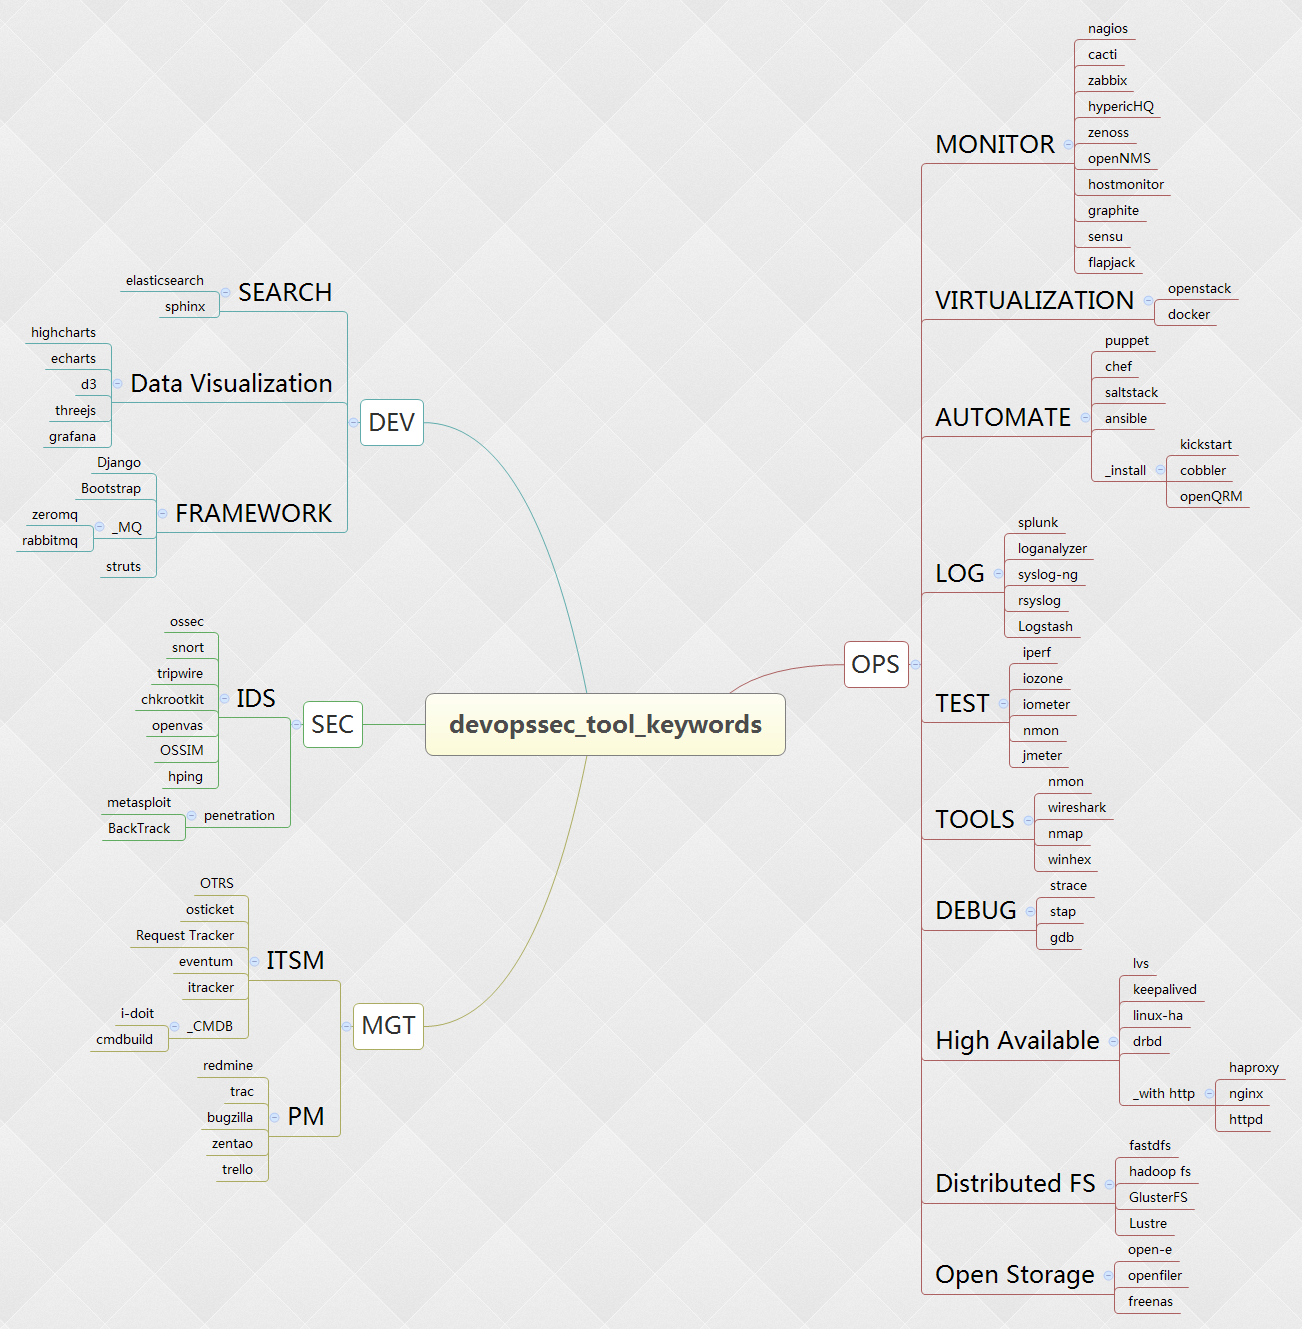
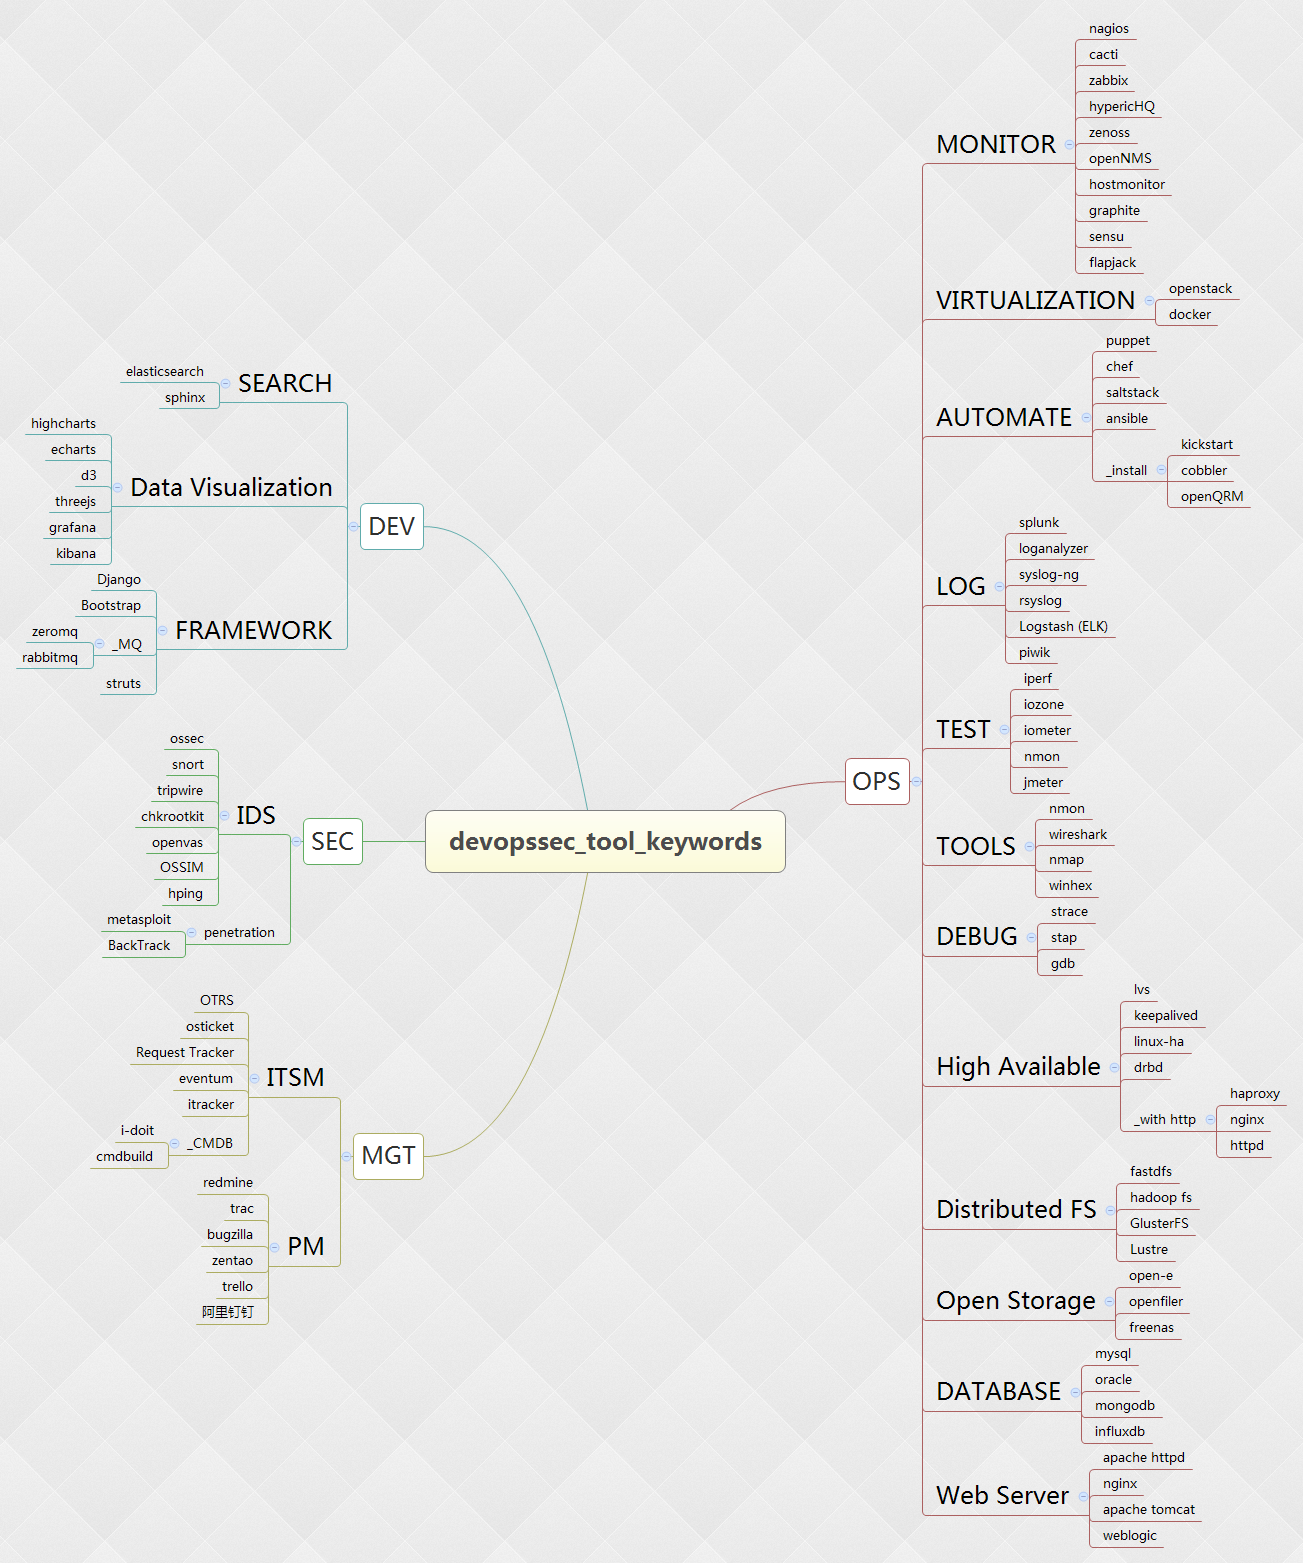
update database web server dingding

diff --git a/devopssec_tool_keywords.html b/devopssec_tool_keywords.html
@@ -99,7 +99,10 @@
 <a name="2hfftridt8qbk93ta1jhdd2in3">&nbsp;&nbsp;rsyslog</a>
 </h3>
 <h3 class="topic">
-<a name="42u2t9dqfvtfir9s0h990ik50g">&nbsp;&nbsp;Logstash</a>
+<a name="42u2t9dqfvtfir9s0h990ik50g">&nbsp;&nbsp;Logstash (ELK)</a>
+</h3>
+<h3 class="topic">
+<a name="3cg8k75s7g70ateouodq4v14vm">&nbsp;&nbsp;piwik</a>
 </h3>
 <h3 class="topic">
 <a name="30vebl41mp37e98nckv93ret73">&nbsp;TEST</a>
@@ -200,6 +203,36 @@
 <h3 class="topic">
 <a name="1a75727747b34djje9f2pq1a93">&nbsp;&nbsp;freenas</a>
 </h3>
+<h3 class="topic">
+<a name="0n1nkga500tcrjlf6ocqjh8ipp">&nbsp;DATABASE</a>
+</h3>
+<h3 class="topic">
+<a name="6iq3hvlnttihkv68g4dnclo6t2">&nbsp;&nbsp;mysql</a>
+</h3>
+<h3 class="topic">
+<a name="4qekp9g0kok8f77aj0a812fnum">&nbsp;&nbsp;oracle</a>
+</h3>
+<h3 class="topic">
+<a name="24dkde60crhl9ffo3pn0c4nid7">&nbsp;&nbsp;mongodb</a>
+</h3>
+<h3 class="topic">
+<a name="7jr7ebg1n9nqgurjkbb1p3uv09">&nbsp;&nbsp;influxdb</a>
+</h3>
+<h3 class="topic">
+<a name="30cb8bsh5evtnlkhmh9dgvt58a">&nbsp;Web Server</a>
+</h3>
+<h3 class="topic">
+<a name="5v12gmk9a90dmi6226ak2apgk4">&nbsp;&nbsp;apache httpd</a>
+</h3>
+<h3 class="topic">
+<a name="2dfrj19tspdss8s4u917nnf2fn">&nbsp;&nbsp;nginx</a>
+</h3>
+<h3 class="topic">
+<a name="2jl8f8gd7pkqlc37b6qbof4nl0">&nbsp;&nbsp;apache tomcat</a>
+</h3>
+<h3 class="topic">
+<a name="2jbu52cdqmkobtt4m5d975475q">&nbsp;&nbsp;weblogic</a>
+</h3>
 <h2 class="topic">
 <a name="1jngas0d6jgpqmkm4cdhr7q872">MGT</a>
 </h2>
@@ -247,6 +280,9 @@
 </h3>
 <h3 class="topic">
 <a name="5nh9e3pvb2v8pbeuhe1gub2b93">&nbsp;&nbsp;trello</a>
+</h3>
+<h3 class="topic">
+<a name="7ct7qro23ba12p1b2dvt2f9ujs">&nbsp;&nbsp;阿里钉钉</a>
 </h3>
 <h2 class="topic">
 <a name="1ri2k6scqco3k9q1h3sval5ekb">SEC</a>
@@ -313,6 +349,9 @@
 </h3>
 <h3 class="topic">
 <a name="7s9qvmish4ns8v0v4e7hgpjq6p">&nbsp;&nbsp;grafana</a>
+</h3>
+<h3 class="topic">
+<a name="5mp4257mddleaud8qchj5tm23e">&nbsp;&nbsp;kibana</a>
 </h3>
 <h3 class="topic">
 <a name="2luvp0ga8sag5k49funoq7bjpt">&nbsp;FRAMEWORK</a>
